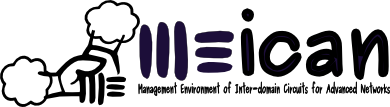
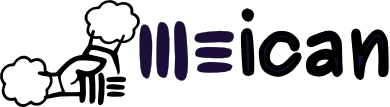
alterações interface
git-svn-id: https://svn-redes.inf.ufrgs.br/hyman/trunks/meican@675 f8bb852b-7d42-42d5-be0b-027218e41f69

Changed region(s): [[0.3385, 0.757, 1.0, 0.8972]]

diff --git a/apps/circuits/views/scripts/reservations_add.js b/apps/circuits/views/scripts/reservations_add.js
@@ -46,18 +46,19 @@ function createSlider(){
                 $("#amount").animate({
                     'color': '#FF0000'
                 },10);
-                $( "#amount" ).val( ui.value + " Mbps. " + warning_string);
+                //$( "#amount" ).val( ui.value + " Mbps.<br> " + warning_string);
+                $( "#amount" ).html( ui.value + " Mbps.<br> " + warning_string);
             } else {
                 $("#amount").animate({
                     'color': '#00000000'
                 },10);
-                $( "#amount" ).val( ui.value + " Mbps");
+                $( "#amount" ).html( ui.value + " Mbps");
             }
         }
     });
     $('#slider').removeClass("ui-widget");
     $('#slider').addClass("ui-widget-slider");
-    $( "#amount" ).val( $( "#slider" ).slider( "value" ) + " Mbps");    
+    $( "#amount" ).html( $( "#slider" ).slider( "value" ) + " Mbps");    
     $("#slider").bind("slidechange", changeBand());
     $("#slider").slider( "option", "disabled", true );
     $("#amount_label").hide();        
@@ -856,6 +857,7 @@ function edit_drawPath(flightPlanCoordinates) {
     if ( flightPlanCoordinates[0] != flightPlanCoordinates[1] ) {
         edit_setBounds(flightPlanCoordinates);  
     }
+    view_clearAll();
     view_Circuit();
 }
 

diff --git a/layouts/login1.css b/layouts/login1.css
@@ -27,8 +27,8 @@
 /* Tabela de disposição dos boxes iniciais */
 body {
        background-color: #3a5879;
-       font-family: verdana, helvetica, arial, sans-serif;
-       font-size: 16px;
+       font-family: helvetica, arial, sans-serif;
+       font-size: 14px;
        margin: 0px;
 }
 
@@ -59,7 +59,7 @@ div#info_box {
     width: 27%;
     float: left;
     margin-top: 90px;
-    font-size: 0.8em;
+    font-size: 12px;
     text-align: right;
 }
 
@@ -72,8 +72,6 @@ div#content {
     padding-left: 0px;
     background-color: #FFF;
     float: left;
-    -moz-border-radius: 50px;
-    border-radius: 50px;
 }
 
 div#content a:hover {
@@ -85,7 +83,6 @@ div#login_form {
     float: right;
     background-color: #eee;
     padding-left: 30px;
-    -moz-border-radius: 25px;
     margin-top: 30px;
     margin-right: 20px
 }

diff --git a/layouts/style1.css b/layouts/style1.css
@@ -46,7 +46,7 @@ div#info_box {
     width: 27%;
     float: left;
     margin-top: 90px;
-    font-size: 0.8em;
+    font-size: 12px;
     text-align: right;
 }
 
@@ -445,7 +445,7 @@ img {
 }
 table.icons {
     text-align: center;
-    font-size: 1.3em;
+    font-size: 16px;
     font-weight: bold;
     left: 0%;
     padding: 10px;
@@ -464,6 +464,8 @@ border-bottom: 1px solid #999;
 border-left: 0.6px solid #999;
 width: 100%;
 -moz-border-radius-topleft: 10px;
+border-radius-topleft: 10px;
+border-radius-topright: 10px;
 -moz-border-radius-topright: 10px;
 }
 ul.tabs li {
@@ -685,4 +687,8 @@ div#main #l3:link, div#main #l3:visited, div#main #l3:hover, div#main #l3:visite
 
 .recurrence_table {
     padding: 3px;
+}
+
+table .reservation_name {
+    padding: 0px;
 }

diff --git a/apps/circuits/controllers/reservations.php b/apps/circuits/controllers/reservations.php
@@ -349,9 +349,9 @@ class reservations extends Controller {
                 "flash_dstVlanInv" => _("Invalid value for destination VLAN"),
                 "flash_dstVlanReq" => _("Destination VLAN type required"),
                 "flash_timerReq" => _("Timer is required"),
-                "flash_timerInvalid" => _("The End Time occurs before the Start Time"),
-                "flash_invalidDuration" => _("Invalid Duration"),
-                "flash_missingEndpoints" => _("Missing Endpoints"),
+                "flash_timerInvalid" => _("The end time occurs before the start time"),
+                "flash_invalidDuration" => _("Invalid duration"),
+                "flash_missingEndpoints" => _("Missing endpoints"),
                 // endpoints
                 "domain_string" => _("Domain"),
                 "domains_string" => _("Domains"),
@@ -359,8 +359,8 @@ class reservations extends Controller {
                 "networks_string" => _("Networks"),
                 "device_string" => _("Device"),
                 "devices_string" => _("Devices"),
-                "from_here_string" => _("From Here"),
-                "to_here_string" => _("To Here"),
+                "from_here_string" => _("From here"),
+                "to_here_string" => _("To here"),
                 "cluster_information_string" => _("Information about cluster"),
                 "coordinates_string" => _("Coordinates"),
                 // timers

diff --git a/apps/init/views/login.php b/apps/init/views/login.php
@@ -29,7 +29,7 @@
     <body>
         <div id="header" class="header">
             <div id="logo_box">
-                <img src="layouts/img/meican_white2.png" class="logo" alt="MEICAN">
+                <img src="layouts/img/meican_white.png" class="logo" alt="MEICAN">
             </div>
             <div id="info_box">
                 <a href="#"><?php echo _('About MEICAN');?></a> |
@@ -96,20 +96,21 @@
             </div>
         </div>
              <div id="footer">
-            <a href="#">
-                        <?php echo _('About us'); ?>
+<!--            <a href="#">
+                        <?php //echo _('About us'); ?>
             </a> |
             <a href="#">
-                        <?php echo _('Developers'); ?>
+                        <?php //echo _('Developers'); ?>
             </a> |
             <a href="#">
-                        <?php echo _('Terms of service'); ?>
+                        <?php //echo _('Terms of service'); ?>
             </a> |
             <a href="#">
-                        <?php echo _('Privacy policy'); ?>
+                        <?php //echo _('Privacy policy'); ?>
             </a>
             <br>
             2011
+-->
         </div>
     </body>
 </html>

diff --git a/apps/circuits/views/elements/reservation_tab2.php b/apps/circuits/views/elements/reservation_tab2.php
@@ -101,7 +101,7 @@
                                     <?php $this->addElement('reservation_tab3'); ?>
                                     <div style="width: 100%; margin-top: 5px">
                                         <label id="amount_label" for="amount"></label>
-                                        <input type="text" readonly id="amount" style="border:0; color:#000; font-weight:bold; width:100%"/>
+                                        <label id="amount" style="border:0; color:#000; font-weight:bold; width:100%"></label>
                                         <input type="hidden" name="bandwidth" id="bandwidth" value=""/>
                                     </div>
                                 </div>

diff --git a/apps/circuits/views/elements/view_flow.php b/apps/circuits/views/elements/view_flow.php
@@ -4,10 +4,10 @@ $flow = $argsToElement;
 
 ?>
 
-<table class="flow">
+<table class="flow" style="border:#3A5879 1px solid">
 
     <tr>
-        <td></td>
+        <th></th>
         <th>
             <?php echo _("Source"); ?>
         </th>
@@ -73,6 +73,15 @@ $flow = $argsToElement;
         </td>
         <td>
             <label id="confirmation_dst_vlan">Untagged</label>
+        </td>
+    </tr>
+    
+    <tr>
+        <th>
+            <?php echo _("Bandwidth"); ?>
+        </th>
+        <td colspan="2">
+            <label id="lb_bandwidth"></label>
         </td>
     </tr>
 </table>

diff --git a/apps/init/views/gui.php b/apps/init/views/gui.php
@@ -188,7 +188,7 @@ function fillSelectBox(htmlId, fillerArray, current_val) {
 
         <div id="header" class="header">&nbsp;
             <div id="logo_box"> &nbsp;
-                   <a href="<?php echo $this->buildLink(array('action' => 'welcome')); ?>"><img src="layouts/img/meican_white2.png" class="logo" alt="MEICAN"/></a>
+                   <a href="<?php echo $this->buildLink(array('action' => 'welcome')); ?>"><img src="layouts/img/meican_white.png" class="logo" alt="MEICAN"/></a>
             </div>
            
             <div id="info_box">

diff --git a/apps/circuits/views/elements/reservation_tab5.php b/apps/circuits/views/elements/reservation_tab5.php
@@ -11,7 +11,7 @@
             
         </td>
         <td style="width: 30%">
-            <div id="view_map_canvas"></div>        
+            <div id="view_map_canvas" style="height:224px;"></div>        
         </td>
         <td style="width: 40%">
             <?php $this->addElement('view_flow', $flow); ?>        
@@ -24,9 +24,6 @@
 <br/><br/>
 
 <div align="center">
-    <h2 style="display: inline"><?php echo _('Bandwidth'); ?>:</h2><label id="lb_bandwidth"></label>
-
-    <br/><br/><br/>
 
     <h2><?php echo _('Timer'); ?></h2>
     

diff --git a/apps/circuits/views/elements/reservation_tab1.php b/apps/circuits/views/elements/reservation_tab1.php
@@ -2,7 +2,7 @@
 
 <table>
     <tr>
-        <td>
+        <td class="reservation_name">
             <?php echo _("Reservation name:"); ?>
             <input type="text" name="res_name" id="res_name" size="50" value="<?php echo $name; ?>" onkeyup="changeName(this);"/>
         </td>
